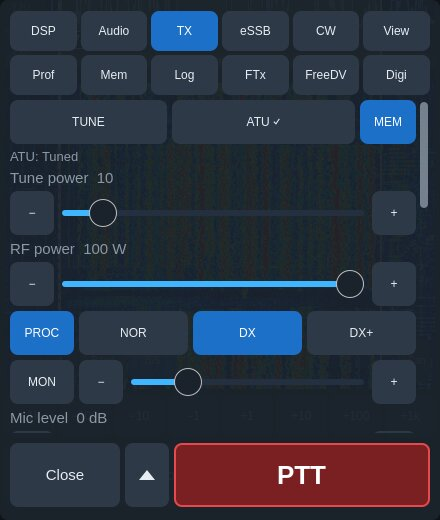
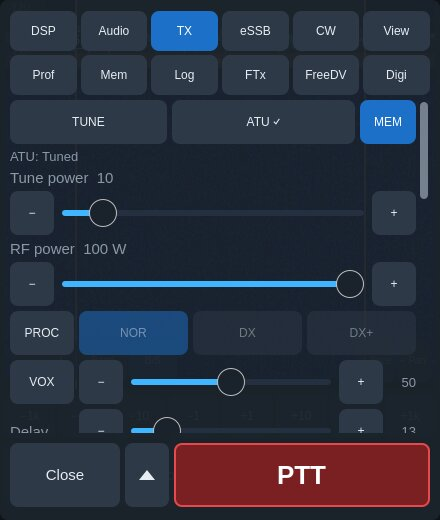
mobile: VOX with this device's microphone (19)
Christoph DM5HF asked twice ("is there a VOX option? ... Would be cool,
especially with EarPods"). The radio's VOX keys on what reaches its mic
input; the desktop and SmartSDR stream a PC microphone all the time, so
their VOX works with a headset, while this app opened the microphone only
for PTT. Now, with mic input PC and the radio's VOX on, the microphone
stays open and streams to the radio (updateMicCheck; not in CW, not in
standby under the transmit lock, re-checked on the phone settings, the
lock and the mode). The Mic meter's check stays off while VOX is on. The
TX tab shows VOX and Delay with this device's microphone too, with a line
under them (a headset needed; in SB, VOX cannot key until armed). The
voice log's and the voice keyer's recordings send nothing to the radio.

Tested on the FLEX live at 10 W on a clear 14.2365 USB, a virtual
PipeWire microphone playing a Morse "TEST DE OH6OKSA": the radio keyed
by its VOX and dropped after its delay; with the transmit lock in SB the
microphone stayed closed and nothing keyed; everything restored.

The manual's TX tab text and pictures (tab-tx, fm-tx, tx-lock, its scroll
650 for the two rows), the privacy policy's Microphone section (VOX and
the TX tab's meter), the roadmap. The shot plan's phone command reads and
sets the radio's phone settings.

Claude-Session: https://claude.ai/code/session_01KANojkzU64KoozGDbNDzRK

diff --git a/mobile/qml/TxControls.qml b/mobile/qml/TxControls.qml
@@ -268,12 +268,24 @@ ColumnLayout {
             horizontalAlignment: Text.AlignRight
         }
     }
-    // VOX and DEXP act on the radio's own microphone input only: with this
-    // device's microphone (mic input PC, which opens only while PTT is held)
-    // neither can do anything, so they show only when a radio input is
-    // selected (canUseDeviceMicrophone: the radio's mic, PC available).
-    PhoneLevel { visible: !Engine.cwMode && Engine.canUseDeviceMicrophone; key: "voxLevel"; toggleKey: "voxOn"; title: qsTr("VOX") }
-    PhoneLevel { visible: !Engine.cwMode && Engine.canUseDeviceMicrophone; key: "voxDelay"; title: qsTr("Delay") }
+    // VOX is the radio's own: it keys on what its mic input brings. With the
+    // radio's microphone (canUseDeviceMicrophone: a radio input chosen, PC
+    // available) that is the radio's; with this device's (mic input PC) the
+    // app keeps the microphone streaming while VOX is on (roadmap 19,
+    // Christoph DM5HF). DEXP stays with the radio's own inputs.
+    PhoneLevel { visible: !Engine.cwMode && (Engine.canUseDeviceMicrophone || Engine.usingDeviceMicrophone); key: "voxLevel"; toggleKey: "voxOn"; title: qsTr("VOX") }
+    PhoneLevel { visible: !Engine.cwMode && (Engine.canUseDeviceMicrophone || Engine.usingDeviceMicrophone); key: "voxDelay"; title: qsTr("Delay") }
+    Label {
+        objectName: "voxDeviceNote"
+        visible: !Engine.cwMode && Engine.usingDeviceMicrophone && !!Engine.phone.voxOn
+        Layout.fillWidth: true
+        text: Engine.voxHoldsMicrophone
+              ? qsTr("VOX keeps this device's microphone open and sends it to the radio, whose VOX keys on speech: use a headset, as sound from the speaker would key it too.")
+              : qsTr("In standby (SB) VOX cannot key: the microphone opens once the transmit lock is armed (OA).")
+        color: Theme.textDim
+        font.pixelSize: Theme.px(13)
+        wrapMode: Text.Wrap
+    }
     PhoneLevel { visible: !Engine.cwMode && Engine.canUseDeviceMicrophone; key: "dexpLevel"; toggleKey: "dexpOn"; title: qsTr("DEXP") }
     PhoneLevel {
         visible: ["AM", "SAM", "DSB"].indexOf(Engine.mode) >= 0

diff --git a/mobile/src/MobileEngine.cpp b/mobile/src/MobileEngine.cpp
@@ -2597,6 +2597,10 @@ void MobileEngine::wireTransmit()
     connect(&rm.transmitModel(), &TransmitModel::micStateChanged, this, &MobileEngine::profilesChanged);
     connect(&rm.transmitModel(), &TransmitModel::micStateChanged, this, &MobileEngine::updateMicCheck);
     connect(&rm.transmitModel(), &TransmitModel::stateChanged, this, &MobileEngine::updateMicCheck);
+    // VOX on or off, the transmit lock, CW: whether VOX holds the microphone.
+    connect(&rm.transmitModel(), &TransmitModel::phoneStateChanged, this, &MobileEngine::updateMicCheck);
+    connect(this, &MobileEngine::txLockChanged, this, &MobileEngine::updateMicCheck);
+    connect(this, &MobileEngine::modeChanged, this, &MobileEngine::updateMicCheck);
     connect(&rm.equalizerModel(), &EqualizerModel::txStateChanged, this, &MobileEngine::eqChanged);
     connect(&rm.equalizerModel(), &EqualizerModel::rxStateChanged, this, &MobileEngine::eqChanged);
     connect(&rm.meterModel(), &MeterModel::micMetersChanged, this,
@@ -2979,27 +2983,36 @@ void MobileEngine::holdMicCheck(QObject* holder, bool on)
 void MobileEngine::updateMicCheck()
 {
     const TransmitModel& tm = m_session.radioModel().transmitModel();
-    const bool want = !m_micCheckHolders.isEmpty() && m_connected && tm.micSelection() == kDeviceMicSelection
-        && !tm.voxEnable();
-    if (want == m_micCheckOpen) {
+    const bool deviceMic = m_connected && tm.micSelection() == kDeviceMicSelection;
+    // VOX with this device's microphone (roadmap 19): the radio's VOX keys on
+    // what the PC input brings, so the microphone streams while VOX is on;
+    // not in CW (the radio's VOX is for voice), not in standby (the transmit
+    // lock: nothing may key), not without transmit (an RX-only radio).
+    const bool vox = deviceMic && m_caps.canTransmit && tm.voxEnable() && !cwMode() && !txLocked();
+    // The Mic meter's check: never while VOX is on (speech would key it).
+    const bool meter = deviceMic && !m_micCheckHolders.isEmpty() && !tm.voxEnable();
+    const bool want = vox || meter;
+    if (want == m_micCheckOpen && vox == m_voxMicOpen) {
         return;
     }
-    if (want) {
+    if (want && !m_micCheckOpen) {
         if (!ensureMicrophonePermission()) {
-            return;   // asked; the next time the tab shows it opens
+            return;   // asked; the next time the tab shows or VOX goes on it opens
         }
         m_micLevelDbfs = -100.0;
         m_micPeakDbfs = -100.0;
         startDeviceMicrophoneCapture();
         m_micCheckOpen = true;
-        qCInfo(lcMobile) << "mic check: microphone open for the Mic meter";
-    } else {
+    } else if (!want && m_micCheckOpen) {
         m_micCheckOpen = false;
         if (!m_pttHeld && !m_dvkRecordingMic && m_voiceState == QLatin1String("idle")) {
             stopDeviceMicrophoneCapture();
         }
-        qCInfo(lcMobile) << "mic check: microphone closed";
     }
+    m_voxMicOpen = vox;
+    qCInfo(lcMobile) << (vox     ? "mic check: microphone open for VOX (it streams to the radio, whose VOX keys on it)"
+                         : want  ? "mic check: microphone open for the Mic meter"
+                                 : "mic check: microphone closed");
     emit txMetersChanged();
 }
 
@@ -4362,6 +4375,12 @@ void MobileEngine::useDeviceMicrophone()
     if (canUseDeviceMicrophone()) {
         m_session.radioModel().transmitModel().setMicSelection(kDeviceMicSelection);
     }
+}
+
+bool MobileEngine::usingDeviceMicrophone() const
+{
+    return m_connected && m_caps.canTransmit
+        && m_session.radioModel().transmitModel().micSelection() == kDeviceMicSelection;
 }
 
 bool MobileEngine::canUseRadioMicrophone() const
@@ -9714,6 +9733,7 @@ void MobileEngine::onConnectionStateChanged(bool connected)
         m_wanActive = false;
     }
     m_micCheckOpen = false;
+    m_voxMicOpen = false;
     stopDeviceMicrophoneCapture(true);
     setKeepScreenAwake(false);
     stopAudio();

diff --git a/mobile/src/MobileEngine.h b/mobile/src/MobileEngine.h
@@ -220,6 +220,14 @@ class MobileEngine : public QObject {
     Q_PROPERTY(bool audioRouteSelectable READ audioRouteSelectable NOTIFY transmitStateChanged)
     // The radio's own microphone input can be chosen (one besides PC).
     Q_PROPERTY(bool canUseRadioMicrophone READ canUseRadioMicrophone NOTIFY transmitStateChanged)
+    // The radio's mic input is this device (PC) and it can transmit.
+    Q_PROPERTY(bool usingDeviceMicrophone READ usingDeviceMicrophone NOTIFY transmitStateChanged)
+    // VOX with this device's microphone (roadmap 19): the radio's VOX is on
+    // with mic input PC, so the microphone stays open and streams to the
+    // radio, whose VOX keys on it (as SmartSDR's and the desktop's PC mic,
+    // which stream all the time). Closed in CW, in standby (the transmit
+    // lock) and while the app's own recordings use the microphone.
+    Q_PROPERTY(bool voxHoldsMicrophone READ voxHoldsMicrophone NOTIFY txMetersChanged)
     Q_PROPERTY(bool transmitting READ transmitting NOTIFY transmittingChanged)
     Q_PROPERTY(bool nr READ nr WRITE setNr NOTIFY dspChanged)
     Q_PROPERTY(bool nb READ nb WRITE setNb NOTIFY dspChanged)
@@ -1764,7 +1772,8 @@ public:
     // A shown TX tab holds this device's microphone open, so its Mic meter
     // moves before transmitting and the level can be set (as the desktop and
     // SmartSDR, which meter the mic in receive too). Nothing is transmitted:
-    // the radio keys only on PTT. Not while VOX is on (speech would key it).
+    // the radio keys only on PTT. With the radio's VOX on it is VOX that
+    // holds the microphone (voxHoldsMicrophone), and only when VOX may key.
     Q_INVOKABLE void holdMicCheck(QObject* holder, bool on);
     QVariantMap txChain() const;
     Q_INVOKABLE void setTxChain(const QString& key, const QVariant& value);
@@ -1895,6 +1904,8 @@ public:
     void setAudioOnRadio(bool radio);
     bool audioRouteSelectable() const;
     bool canUseRadioMicrophone() const;
+    bool usingDeviceMicrophone() const;
+    bool voxHoldsMicrophone() const { return m_voxMicOpen; }
     // Dev/screenshot runs: leave the radio's mic input alone.
     void setMicDefaultEnabled(bool enabled) { m_micDefaultEnabled = enabled; }
     // Screenshots for public pages: the radio's serial number reads "(hidden)".
@@ -2307,7 +2318,8 @@ private:
     QHash<QString, QString> m_loggedLicenseFeatures;
     QString m_loggedLicenseSubscription;
     QList<QObject*> m_micCheckHolders;   // shown TX tabs
-    bool m_micCheckOpen{false};          // the microphone is open for them
+    bool m_micCheckOpen{false};          // the microphone is held open: for them or for VOX
+    bool m_voxMicOpen{false};            // ... and it is VOX that holds it (roadmap 19)
     std::unique_ptr<QsoLog> m_qsoLog;
 
     // ---- FT8 / FT4 (MobileEngineDigi.cpp) ----

diff --git a/mobile/src/ShotPlan.cpp b/mobile/src/ShotPlan.cpp
@@ -611,6 +611,22 @@ void ShotPlan::run(const QString& command, const QStringList& args, int* delayMs
         m_engine.setRfPower(arg.toInt());
         qInfo() << "shot-plan: RF power" << arg.toInt() << "W";
         *delayMs = 1500;
+    } else if (command == QLatin1String("phone")) {
+        // phone: the radio's phone settings (voxOn, voxLevel, voxDelay,
+        // dexpOn ...) and whether VOX holds this device's microphone;
+        // phone KEY VALUE sets one, as the TX tab does.
+        if (args.size() >= 2) {
+            m_engine.setPhone(args.at(0), args.at(1).toInt());
+            *delayMs = 1500;
+        }
+        const QVariantMap phone = m_engine.phone();
+        QStringList parts;
+        for (auto it = phone.cbegin(); it != phone.cend(); ++it) {
+            parts << QStringLiteral("%1=%2").arg(it.key(), it.value().toString());
+        }
+        qInfo().noquote() << "shot-plan: phone" << parts.join(QLatin1Char(' ')) << "| VOX holds the microphone:"
+                          << (m_engine.voxHoldsMicrophone() ? "yes" : "no") << "| transmitting:"
+                          << (m_engine.transmitting() ? "yes" : "no");
     } else if (command == QLatin1String("status")) {
         // OBJECT | K=V K=V: as the radio's status, so a page can be tried
         // with hardware this radio does not have; commands it sends still

diff --git a/mobile/ROADMAP.md b/mobile/ROADMAP.md
@@ -117,7 +117,7 @@ build. The sections below hold the details.
 16. **Radio:** The radio's profiles imported and exported (Later)
 17. ~~**Radio:** Named app setups exported and imported, Larry W9FLA~~ *in build 160*: Prof › App setups (save, switch, export, import, delete; everything but the voice recordings)
 18. **Radio:** QSO recording (Later)
-19. **Radio:** Optional VOX mode, the microphone always open (Later) Asked again by Christoph Steinert DM5HF (mail 2026-11-16, Mac with EarPods: "is there a VOX option? In the manual I found it, but not in the app? Would be cool, especially with EarPods"): the VOX in Controls › TX is the radio's own, shown only with the radio's microphone input; a VOX for this device's microphone needs the microphone always open (this item). *Pre-analysis 2026-11-18* (chosen for build 187, the user: "19 VOX laitteen mikille"): the radio's own VOX keys on whatever reaches its microphone input, and with mic input PC that is the audio the client streams (remote_audio_tx): the desktop (MainWindow_Session.cpp) streams the PC microphone all the time while PC is chosen ("remote_audio_tx still exists for VOX/met_in_rx"), so SmartSDR's and the desktop's VOX work with a PC headset; this app opens the device's microphone only while PTT is held (and for the TX tab's Mic meter, held off while VOX is on: "speech would key it"), so the radio hears nothing to key on, and the VOX rows show only with the radio's own inputs. Fix: with mic input PC and the radio's VOX on, the app keeps the device's microphone streaming to the radio (as the mic check does), and the VOX and Delay rows show for PC too; the radio keys and unkeys by its own VOX level and delay (nothing new on the radio's side); the app's own uses of the microphone that are not for the air stop the stream while they run (the voice log's listening, the voice keyer's recording), so they cannot key it; the stream stops when VOX goes off, the input changes, the app disconnects or goes to the background without background audio; a line under VOX says the microphone stays open and a headset is needed (a phone's speaker would key it with the receive audio). iOS shows its microphone indicator while it is open, as it should. Terms: none (the radio's own VOX); the privacy policy's Microphone section says the microphone is open only while PTT is held or a recording runs: it gets "or while VOX is on with this device's microphone". Test: on the FLEX, live at low power on a clear frequency (TX testing wanted): mic PC, VOX on, a recorded voice played into the PC's input keys the radio and the delay drops it; VOX off closes the microphone; the voice log does not key it. Size: small-medium.
+19. **Radio:** Optional VOX mode, the microphone always open (Later) Asked again by Christoph Steinert DM5HF (mail 2026-11-16, Mac with EarPods: "is there a VOX option? In the manual I found it, but not in the app? Would be cool, especially with EarPods"): the VOX in Controls › TX is the radio's own, shown only with the radio's microphone input; a VOX for this device's microphone needs the microphone always open (this item). *Pre-analysis 2026-11-18* (chosen for build 187, the user: "19 VOX laitteen mikille"): the radio's own VOX keys on whatever reaches its microphone input, and with mic input PC that is the audio the client streams (remote_audio_tx): the desktop (MainWindow_Session.cpp) streams the PC microphone all the time while PC is chosen ("remote_audio_tx still exists for VOX/met_in_rx"), so SmartSDR's and the desktop's VOX work with a PC headset; this app opens the device's microphone only while PTT is held (and for the TX tab's Mic meter, held off while VOX is on: "speech would key it"), so the radio hears nothing to key on, and the VOX rows show only with the radio's own inputs. Fix: with mic input PC and the radio's VOX on, the app keeps the device's microphone streaming to the radio (as the mic check does), and the VOX and Delay rows show for PC too; the radio keys and unkeys by its own VOX level and delay (nothing new on the radio's side); the app's own uses of the microphone that are not for the air stop the stream while they run (the voice log's listening, the voice keyer's recording), so they cannot key it; the stream stops when VOX goes off, the input changes, the app disconnects or goes to the background without background audio; a line under VOX says the microphone stays open and a headset is needed (a phone's speaker would key it with the receive audio). iOS shows its microphone indicator while it is open, as it should. Terms: none (the radio's own VOX); the privacy policy's Microphone section says the microphone is open only while PTT is held or a recording runs: it gets "or while VOX is on with this device's microphone". Test: on the FLEX, live at low power on a clear frequency (TX testing wanted): mic PC, VOX on, a recorded voice played into the PC's input keys the radio and the delay drops it; VOX off closes the microphone; the voice log does not key it. Size: small-medium. *Done in the dev build (2026-11-18)*: MobileEngine::updateMicCheck holds the microphone for VOX (with mic input PC, the radio's VOX on, not CW, not in standby, the radio able to transmit; re-checked on the phone settings, the transmit lock and the mode) and the Mic meter's check as before (never with VOX on); usingDeviceMicrophone and voxHoldsMicrophone for the TX tab, whose VOX and Delay rows now show with this device's microphone too (DEXP stays with the radio's inputs), with a line under Delay: the microphone open and a headset needed, or in standby that VOX cannot key until armed; the voice log's and the voice keyer's recordings send nothing to the radio (AudioEngine keeps a recording's audio to itself), and the Android recogniser closes the stream while it listens, as it did the meter's. The manual's TX tab and the privacy policy (the microphone open with VOX, and for the TX tab's meter) say so; the shot plan's phone command reads and sets the radio's phone settings. Tested on the FLEX, live at 10 W on 14.2365 USB (clear, the noise floor) with a virtual PipeWire microphone playing a Morse "TEST DE OH6OKSA" at 800 Hz twice: "mic check: microphone open for VOX", the radio keyed by its VOX on each word ("radio transmitting: yes (this app)") and dropped after its delay (13; Morse's word gaps are longer, so 14 key-ups for two plays; speech holds it), VOX off closed it; with the transmit lock on (SB) and VOX on the microphone stayed closed and the same Morse keyed nothing; frequency (14.155450 USB), power (100 W), VOX off, the lock off and the PC's default input restored. Rendered at 440x956 and the iPad's panel at 1180x820; the manual's tab-tx, fm-tx and tx-lock re-rendered on the FLEX (tx-lock's scroll 550 → 650 for the two rows).
 20. ~~**Radio:** More of the desktop's TX chain (de-esser, tube, exciter, reverb) and a chain order~~ *in build 157*: eSSB tab: De-ess, Tube, EVO, Reverb and Order › Change
 21. **Radio:** CW profiles, new in SmartSDR 4.3 (Later)
 22. **Display:** Upstream FFT Smooth and De-comb (Later)

diff --git a/docs/mobile/MANUAL.md b/docs/mobile/MANUAL.md
@@ -1334,10 +1334,10 @@ seven.
   transmits on the shifted frequency and sends the tone; receive stays on
   the frequency shown. Then TUNE and the
   ATU (tune, bypass, memories), tune power, RF power, speech processor (PROC
-  NOR/DX/DX+), **VOX** (on/off, level and delay) and **DEXP** (the downward
-  expander, on/off and level) in voice modes — shown only when the radio's
-  own microphone input is selected, as they do nothing with this device's
-  microphone — the AM **carrier** level in
+  NOR/DX/DX+), **VOX** (on/off, level and delay) in voice modes with either
+  microphone, and **DEXP** (the downward expander, on/off and level) with the
+  radio's own microphone input only, as it does nothing with this device's
+  microphone, the AM **carrier** level in
   AM/SAM/DSB, monitor (MON), **Mic level**, microphone choice (when the
   radio's mic input is not this device, **Use this device's microphone**
   sets it and the line beside it says why PTT waits), **DAX**
@@ -1354,10 +1354,23 @@ seven.
   stage for its PC input, so its mic level does nothing to this
   microphone. Choose Mic for the left meter and set it so speech peaks
   near −10 dB: while the TX tab is open the microphone is open and the
-  meter moves in receive too (nothing is sent before PTT; not while VOX is
-  on). Phone microphones often need +10 to +20 dB; a limiter at
+  meter moves in receive too (nothing is transmitted before PTT; with VOX
+  on, VOX holds the microphone instead). Phone microphones often need +10
+  to +20 dB; a limiter at
   −1 dBFS keeps the loudest peaks from clipping. With a microphone on the
   radio it is the radio's mic level (0–100), as SmartSDR's MIC.
+  **VOX with this device's microphone**: VOX is the radio's own, keying on
+  what reaches its mic input. With this device's microphone, while **VOX**
+  is on the app keeps the microphone open and sends it to the radio, which
+  keys when you speak above the **VOX** level and goes back to receive after
+  the **Delay** (as SmartSDR with a computer's headset). Use a headset or
+  earphones with a microphone: the speaker's receive audio would key it
+  too; the line under **Delay** says so while VOX holds the microphone. In
+  standby (**SB**, the transmit lock) the microphone stays closed, so VOX
+  cannot key until the lock is armed. The voice button's listening and the
+  voice keyer's recording send nothing to the radio, so they do not key it;
+  in CW the microphone closes. iOS shows its microphone indicator while it
+  is open. (Christoph DM5HF asked for it.)
   - **Voice keyer** (voice modes) — twelve voice macros F1–F12. Tap one to
     transmit it, tap again to stop; press and hold to record (from this
     device's microphone; recording does not transmit), rename or clear. On a

diff --git a/mobile/PRIVACY.md b/mobile/PRIVACY.md
@@ -134,7 +134,10 @@ on the device.
 
 The microphone is used only to transmit through your radio (voice, RADE
 digital voice) and to record voice keyer messages you choose to record, and
-it is open only while you hold PTT or record. Transmitting from the device requires the radio's mic
+it is open only while you hold PTT or record, while the TX or eSSB tab is
+shown (for its microphone meter; nothing is transmitted), or while you have
+the radio's VOX on with this device's microphone (the audio then streams to
+your radio, whose VOX transmits when you speak). Transmitting from the device requires the radio's mic
 input to be set to this device ("Use this device's microphone"). The audio
 goes only to your radio and is not recorded or stored, except the voice
 keyer messages you record yourself, which stay on the device. iOS and
@@ -219,4 +222,4 @@ children.
 
 Questions about this policy: oh6oksa@gmail.com
 
-Last updated: 2026-11-16 (speech recognition on the device everywhere, SmartLink accounts and favourites, Bluetooth MIDI search on Android; earlier: the Elecraft KPA1500, Bluetooth MIDI controllers, App setups)
+Last updated: 2026-11-18 (the microphone with VOX and for the TX tab's meter; earlier: speech recognition on the device everywhere, SmartLink accounts and favourites, Bluetooth MIDI search on Android; the Elecraft KPA1500, Bluetooth MIDI controllers, App setups)
